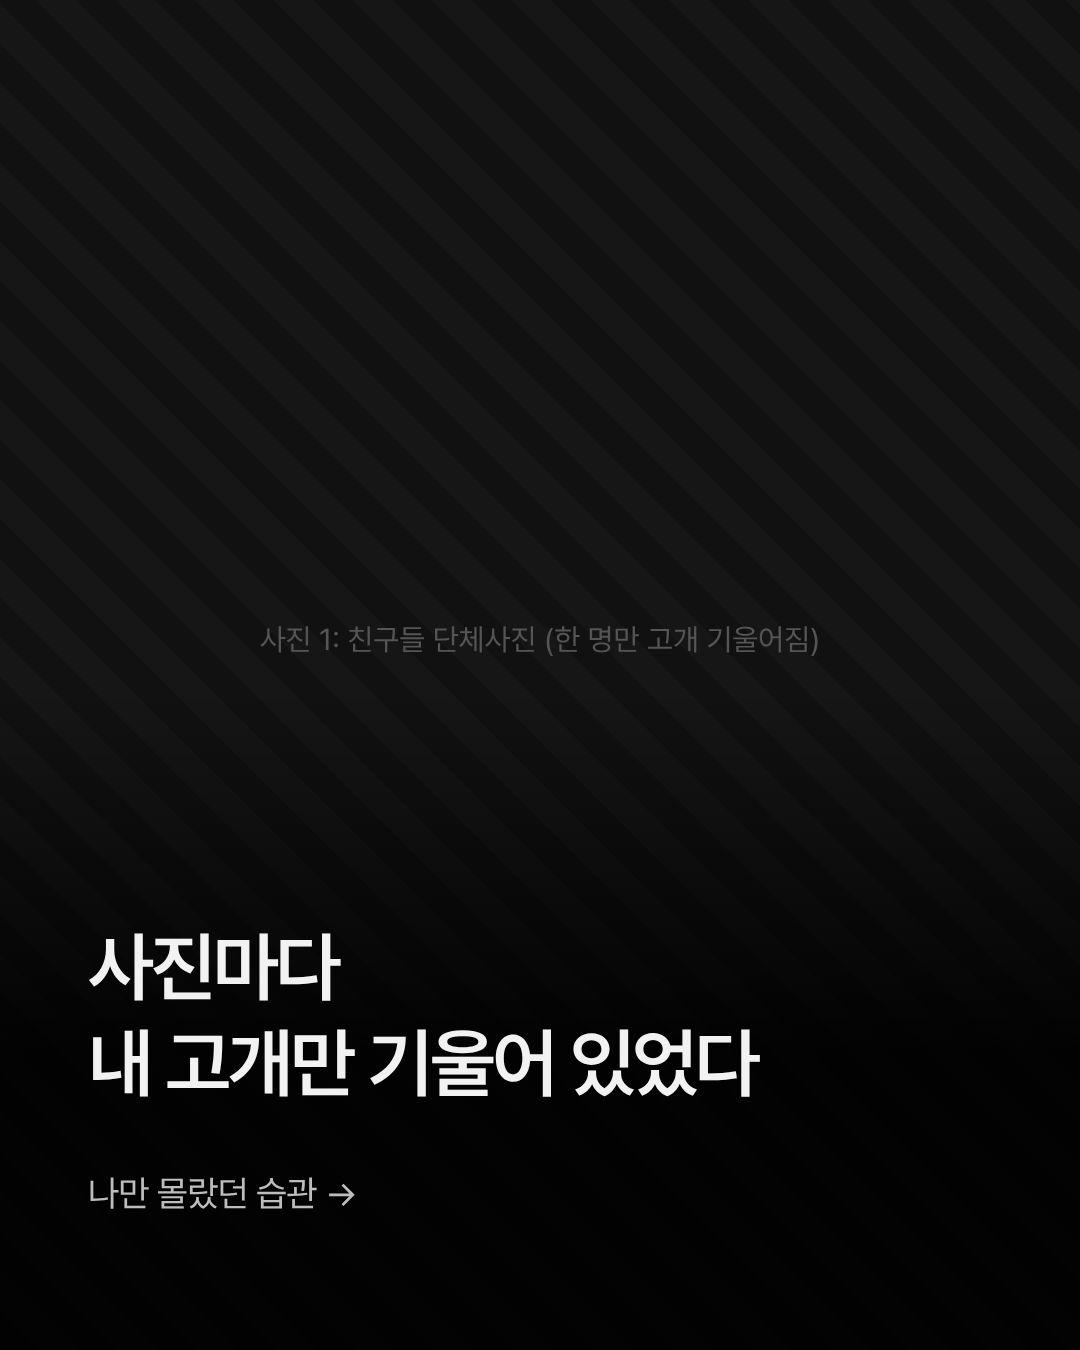
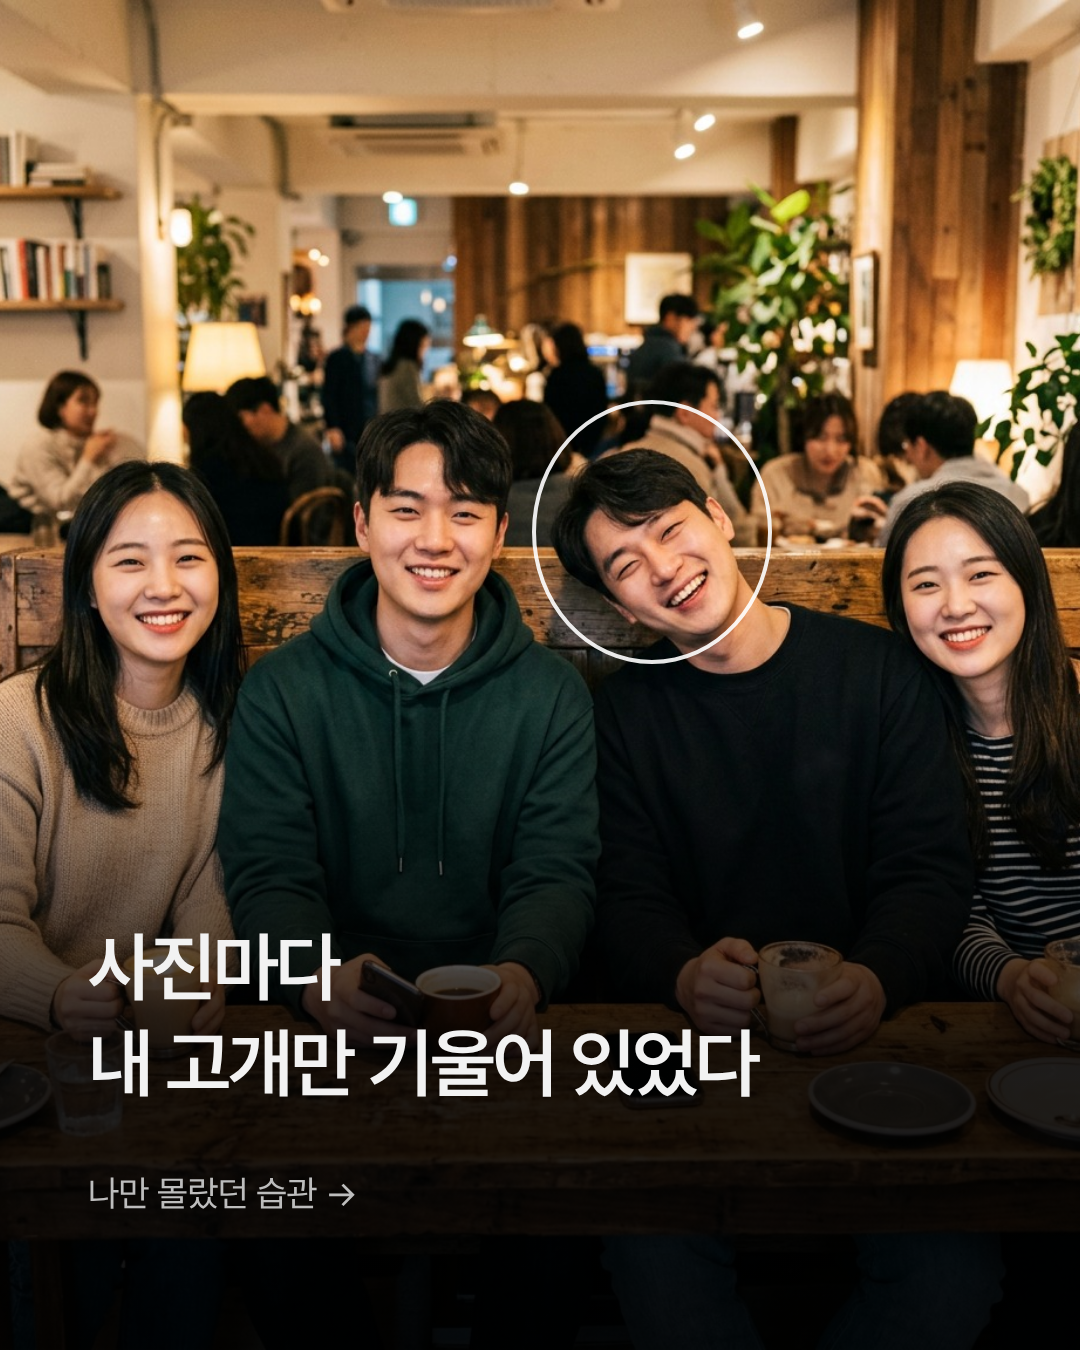
Add Higgsfield photos to post assets and carousel slide 1
Claude-Session: https://claude.ai/code/session_0158HxgyrmyPZ7vbmBS67BrG

diff --git a/store/posts/carousel.html b/store/posts/carousel.html
@@ -17,6 +17,7 @@ html, body { margin: 0; width: 540px; height: 675px; background: #000; overflow:
 .photo { position: absolute; inset: 0; background: #111 center / cover no-repeat; }
 .photo.missing { background: repeating-linear-gradient(45deg, #111 0 14px, #161616 14px 28px); }
 .photo.missing::after { content: attr(data-hint); position: absolute; top: 46%; left: 0; right: 0; text-align: center; color: #555; font-size: 15px; }
+.mark { position: absolute; width: 120px; height: 132px; border: 2px solid rgba(255,255,255,.9); border-radius: 50%; }
 .shade { position: absolute; left: 0; right: 0; bottom: 0; height: 330px; background: linear-gradient(transparent, rgba(0,0,0,.88) 55%); }
 /* Level line */
 .level { position: absolute; left: 50%; width: 380px; height: 14px; margin-left: -190px; }
@@ -49,6 +50,7 @@ html, body { margin: 0; width: 540px; height: 675px; background: #000; overflow:
 <section class="slide" id="s1">
   <div class="photo" data-src="photos/p1.jpg" data-hint="사진 1: 친구들 단체사진 (한 명만 고개 기울어짐)"></div>
   <div class="shade"></div>
+  <div class="mark" style="left:266px;top:200px"></div>
   <div class="h" style="bottom:118px">사진마다<br>내 고개만 기울어 있었다</div>
   <div class="b" style="bottom:64px;color:#BDBDBD">나만 몰랐던 습관 →</div>
 </section>

diff --git a/store/posts/DRAFTS.md b/store/posts/DRAFTS.md
@@ -6,6 +6,11 @@
 - 사진은 Higgsfield에서 AI로 만든 이미지입니다.
   - 본인 사진처럼 쓰지 말고, 인스타그램에서는 업로드할 때 "AI 정보" 라벨을 켜주세요.
   - 진짜 본인 사진이 있으면 그걸로 바꾸는 게 제일 좋습니다.
+- 사진 파일 (`store/posts/photos/`)
+  - p1 카페 단체사진: 캐러셀 1번, 스레드 #1
+  - p2 거리: 스레드 #4 출시글
+  - p3 책상: 디스콰이엇 대표 이미지
+  - p4 걷기: 예비 (걷는 중 측정 얘기할 때)
 
 ---
 
@@ -40,7 +45,6 @@
 ## 2. 인스타그램 / 스레드 캐러셀
 
 - 이미지: `store/posts/carousel/ko-1.png` ~ `ko-7.png` (1080×1350)
-- 1번 슬라이드에 들어갈 사진은 아직 비어 있습니다.
 - 3번 슬라이드의 78%는 예시 숫자입니다. 실제 기록이 쌓이면 숫자를 바꿔서 다시 렌더링합니다.
 
 **캡션**
